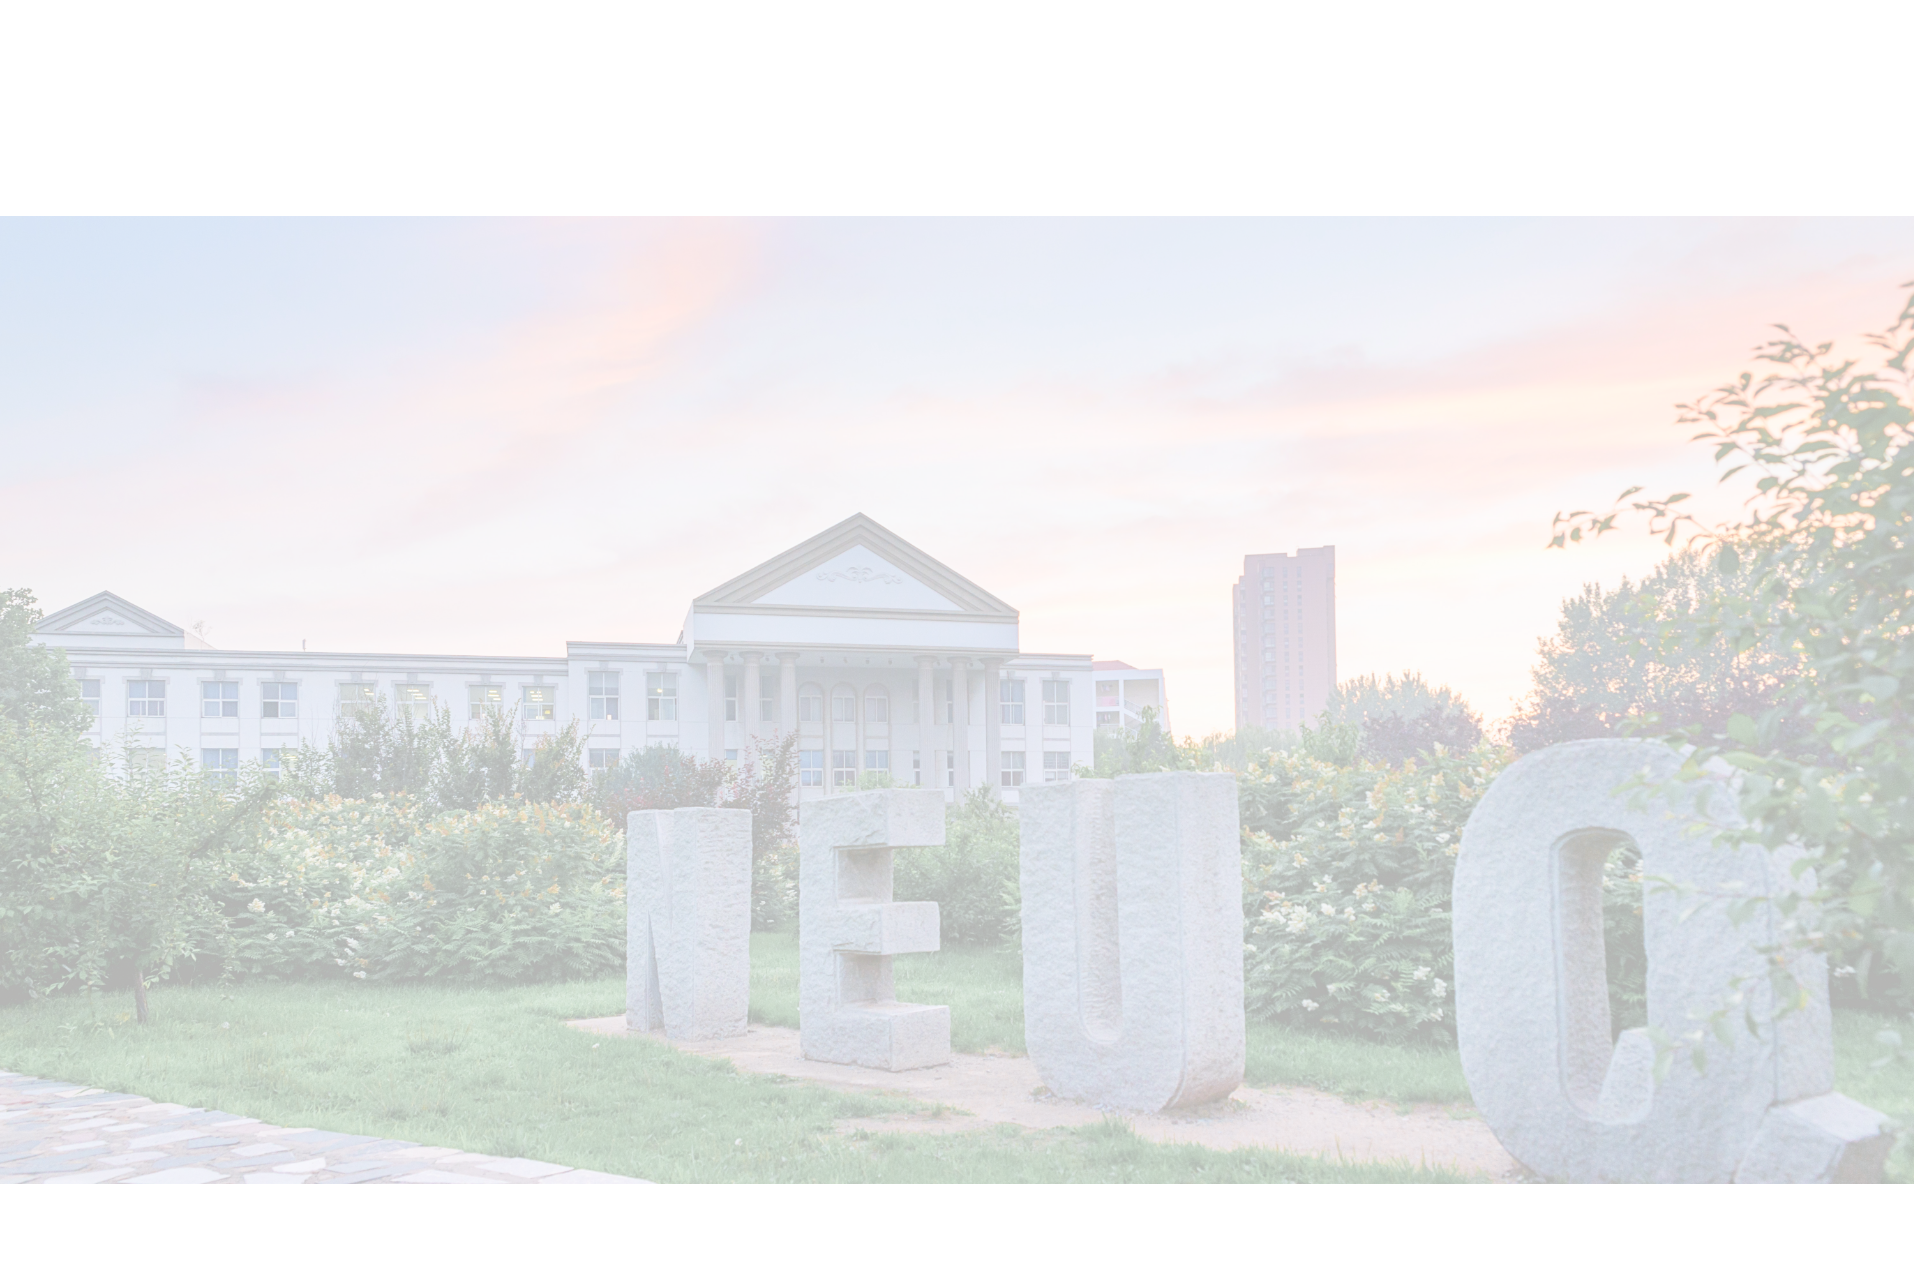
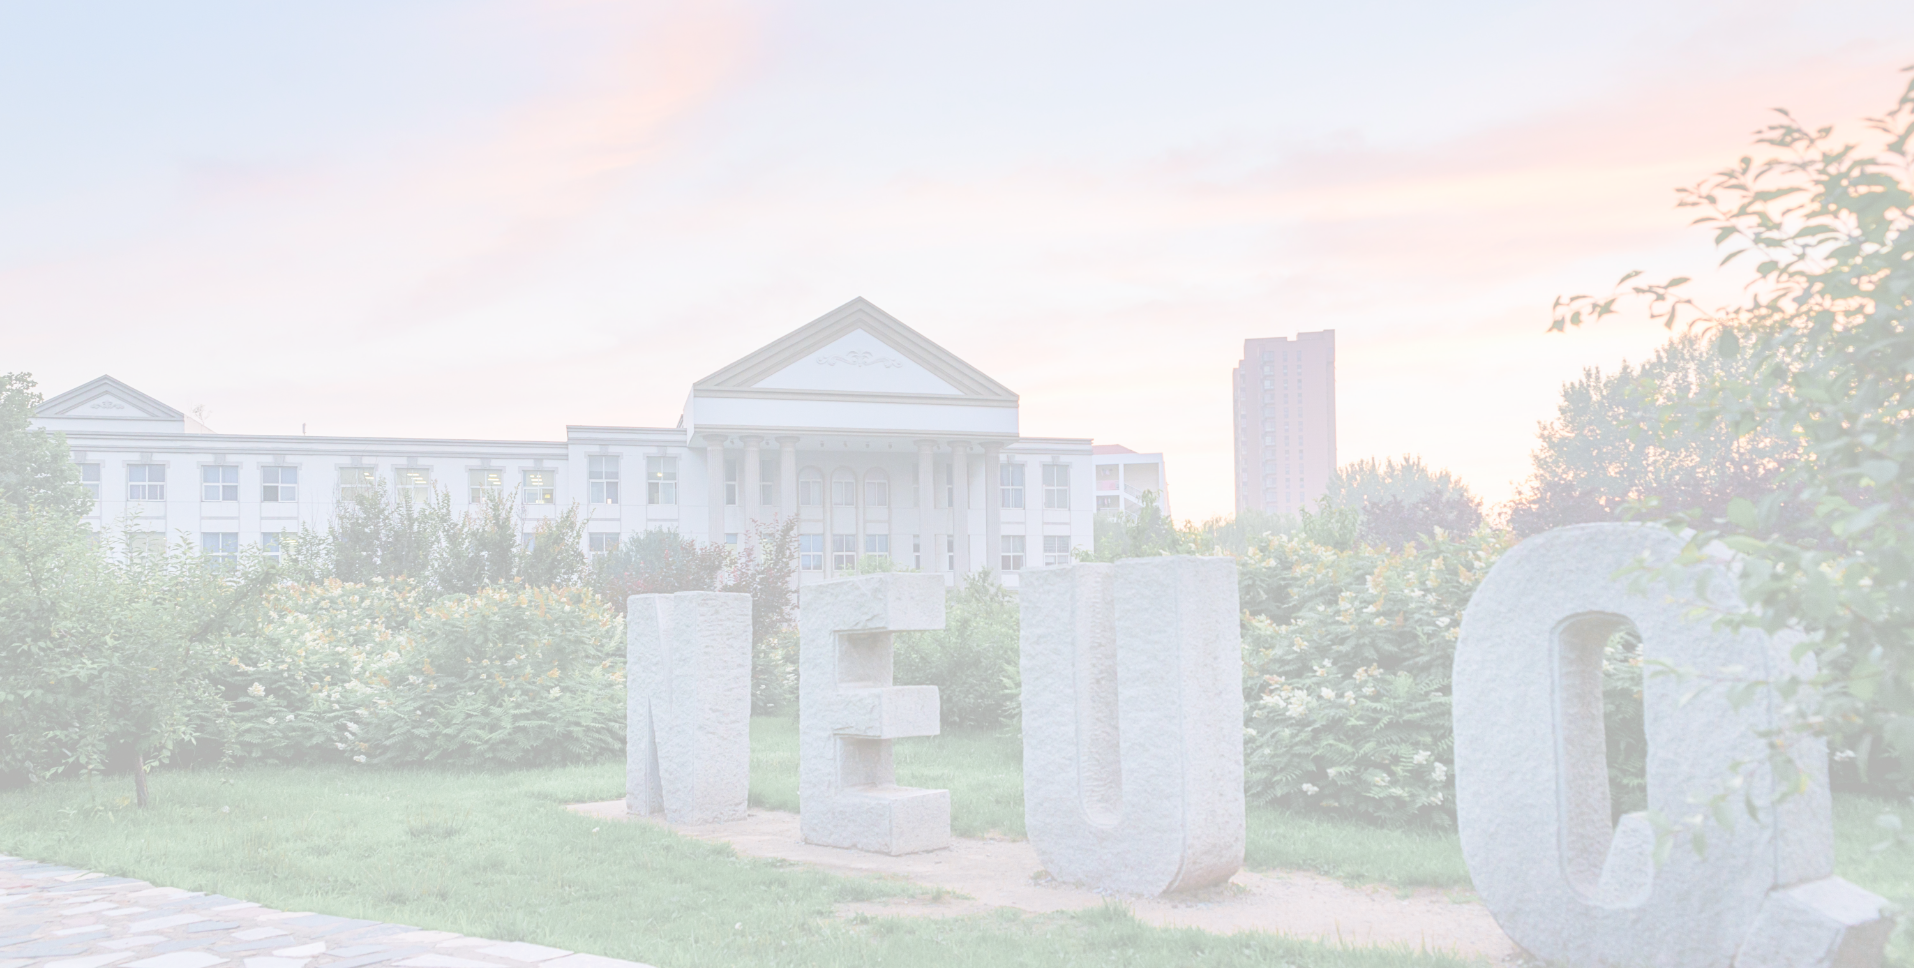
样式修改

diff --git a/src/components/InfoCheck/index.less b/src/components/InfoCheck/index.less
@@ -1,6 +1,7 @@
 .wrapper{
-    width: 100vw;
+    width: 100%;
     height: 92vh;
     background: url(./../../assets/bgc-check.png);
-    
+    background-size: cover;
+    position: relative;
 }
